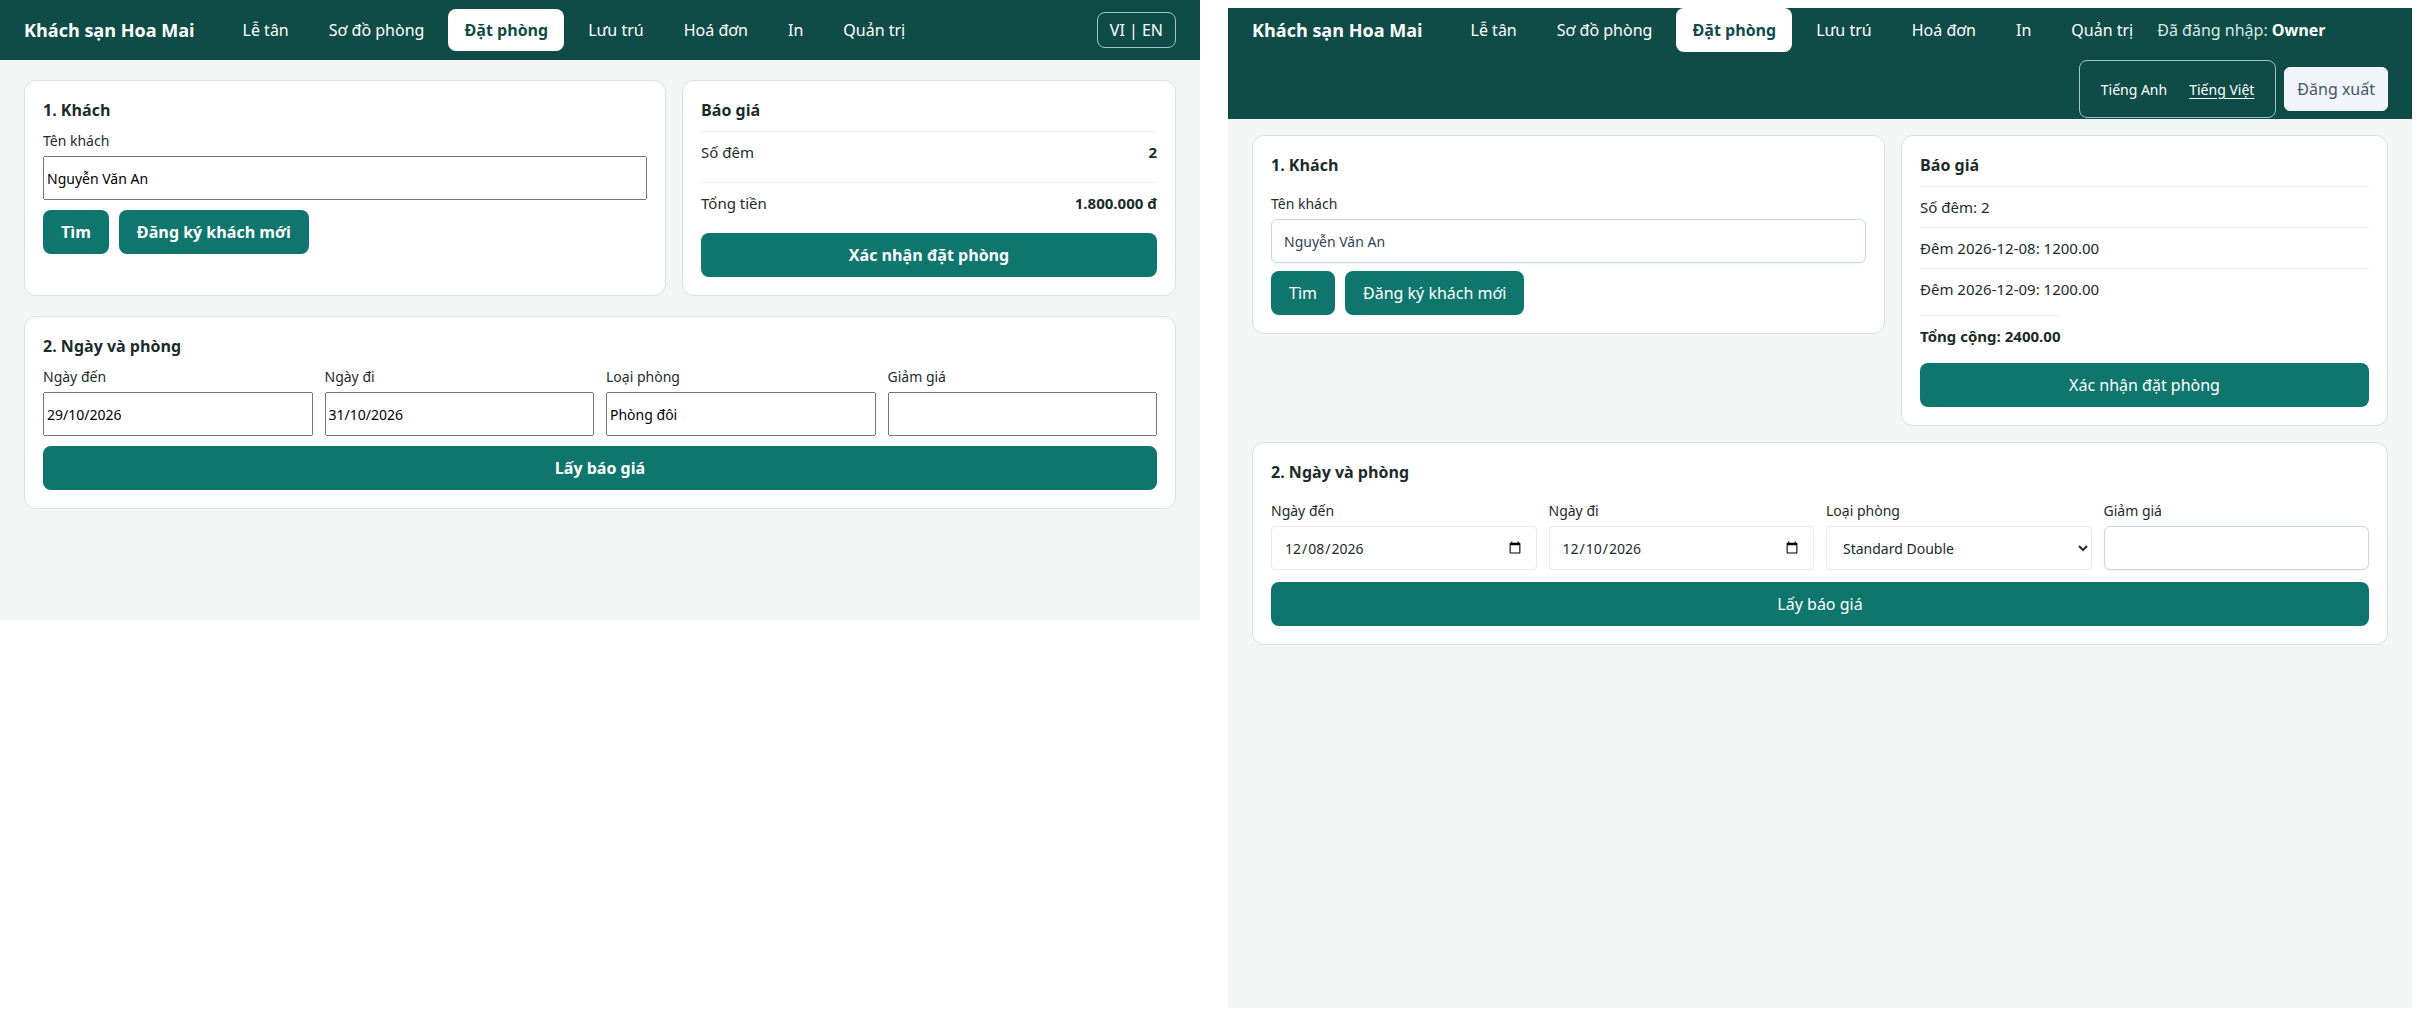
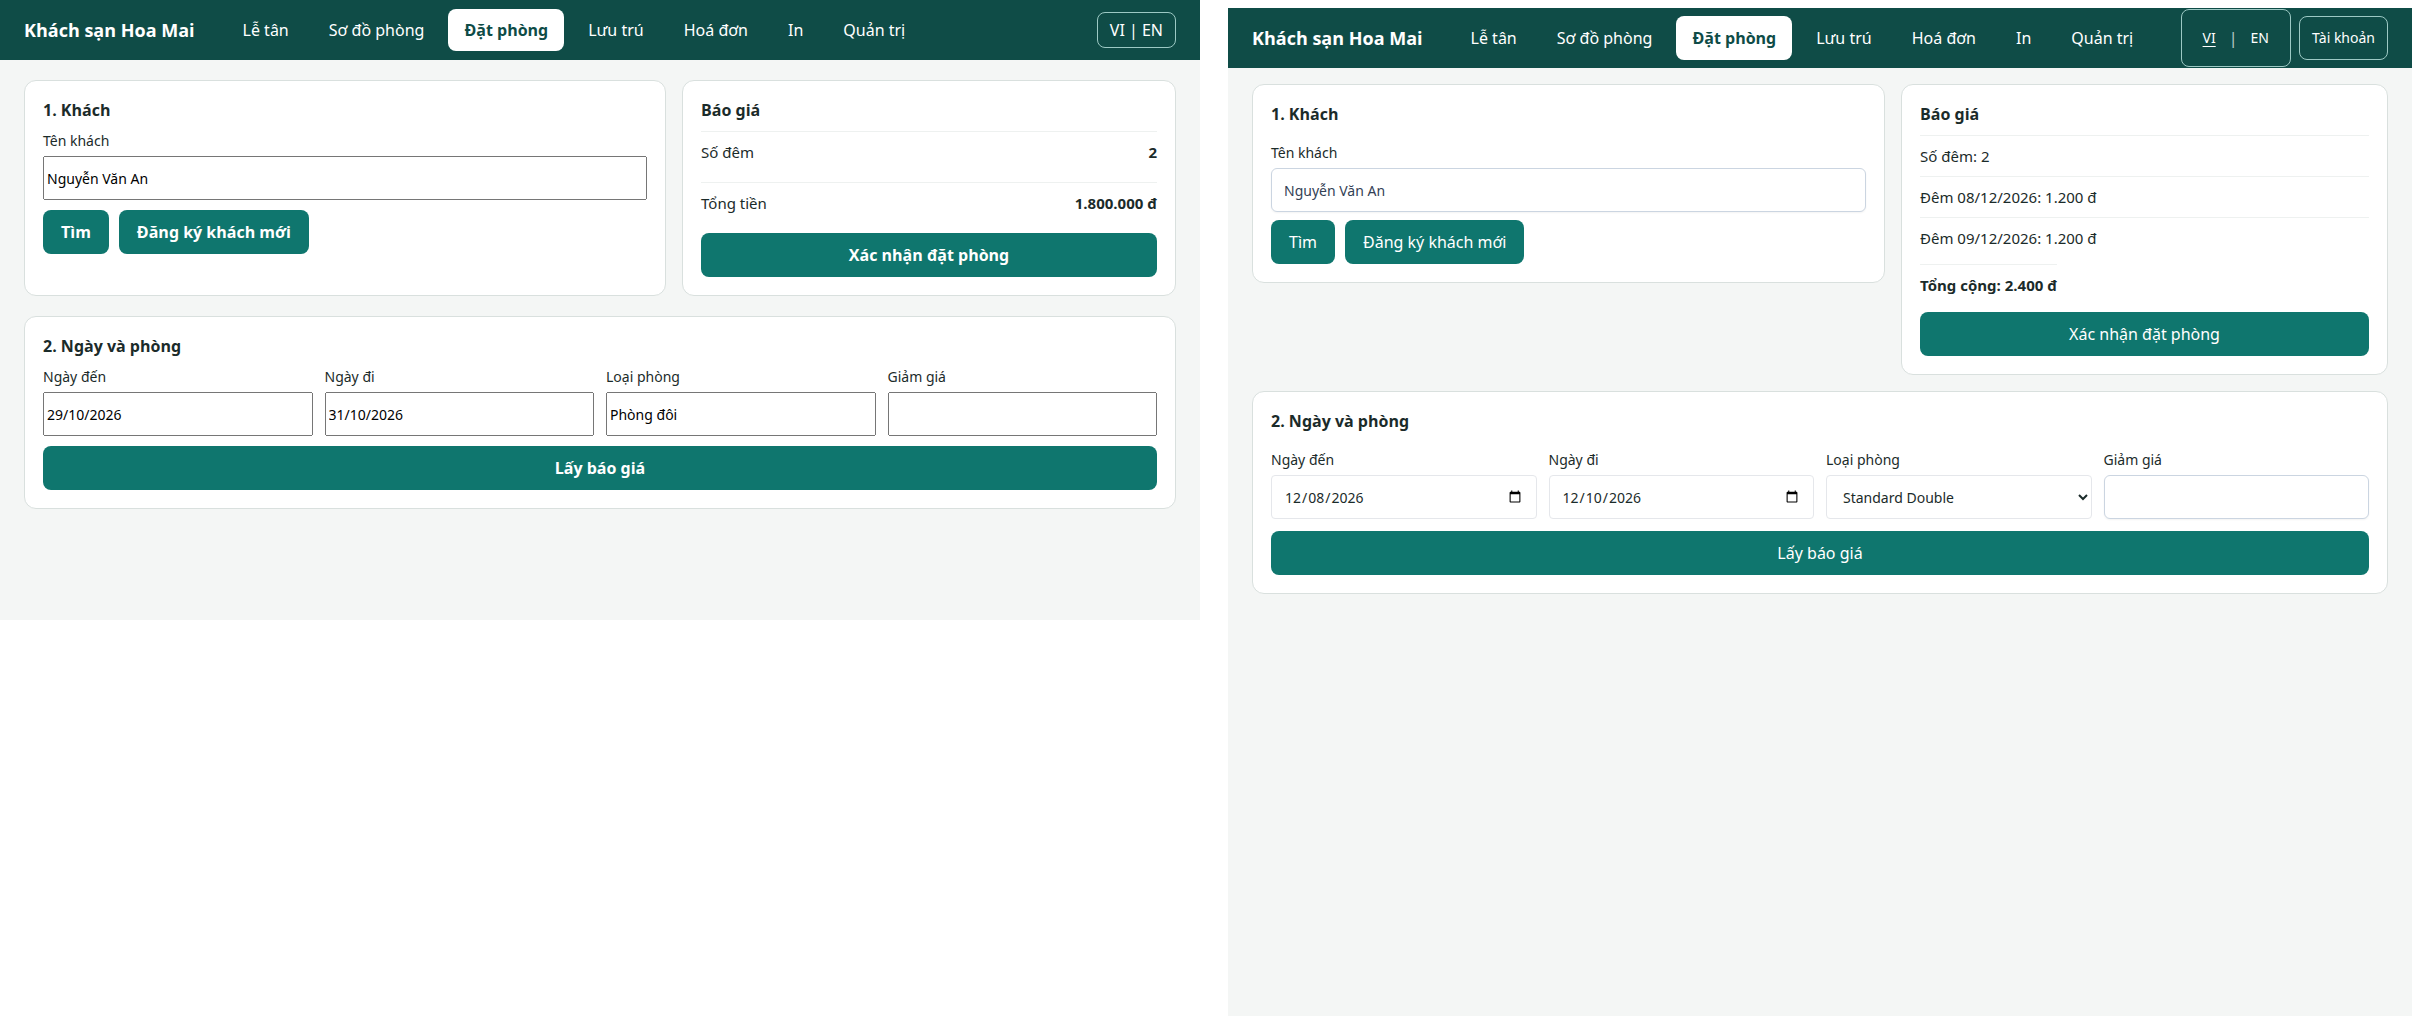
test(desk): Refresh Book and Folio audit evidence for the VND shape (#565)
Refresh the #563 living-record evidence for the `G-BK-2` / `G-FO-2`
fix (#565) in the same change: re-capture `side-by-side-Book-vi.png`
and `side-by-side-Folio-vi.png` from an isolated compose lab
(`hotel-lab-804`) with the built app at 1200px in `vi`, seed the same
guest/dates/amounts as the pre-fix images, and render the design
boards at the same width so only the presentation differs. The Book
quote now reads `Đêm 08/12/2026: 1.200 đ` / `Tổng cộng: 2.400 đ` and
the Folio lines and balance read `12.000 đ` / `6.000 đ`, matching the
design VND shape. Update the evidence index capture notes and image
table, and append the dated row to the audit record.

Also address the non-blocking #574 review notes on `formatVnd`: record
that a sub-dong remainder rounds for display only and that the `đ`
suffix is formatter output rather than catalogue copy, with a rounding
guard in the i18n suite.

Refs #565, Refs #563

diff --git a/app/src/i18n/index.ts b/app/src/i18n/index.ts
@@ -155,7 +155,13 @@ export function formatBusinessDate(canonical: string, locale: LocaleTag): string
 // owner boards draw VND amounts in the design shape — locale
 // grouping, no decimals, and the `đ` suffix (`1.200.000 đ` in VI,
 // `1,200,000 đ` in EN). Amounts arrive in minor units; this is
-// presentation only, so the stored value never changes.
+// presentation only, so the stored value never changes. VND has no
+// subunit, so a sub-dong minor remainder rounds to the nearest dong
+// for display (`1250` renders `13 đ`); the stored minor value is
+// untouched. The `đ` suffix is formatter output, not catalogue copy
+// (`Intl` currency style would emit `₫`, not the design's `đ`), the
+// same class as the date output above rather than a translatable
+// string.
 export function formatVnd(minor: number): string {
   const amount = new Intl.NumberFormat(catalogueLocale(), {
     minimumFractionDigits: 0,

diff --git a/app/src/i18n/index.test.ts b/app/src/i18n/index.test.ts
@@ -184,6 +184,14 @@ describe('desk money and quote-date display (Refs #565)', () => {
     expect(formatVnd(0)).toBe('0 đ');
   });
 
+  it('rounds a sub-dong remainder for display only', () => {
+    // VND has no subunit: 1250 minor is half a dong and renders the
+    // nearest dong. The stored minor value is never changed (Refs
+    // #565 review note).
+    expect(formatVnd(1250)).toBe('13 đ');
+    expect(formatVnd(1240)).toBe('12 đ');
+  });
+
   it('renders the desk dd/mm/yyyy date in both locales', () => {
     expect(formatDeskDate('2026-12-08')).toBe('08/12/2026');
     expect(formatDeskDate('2026-11-01')).toBe('01/11/2026');

diff --git a/docs/testing/evidence/563/README.md b/docs/testing/evidence/563/README.md
@@ -33,6 +33,16 @@ do not drift.
   backend data, so the boot config call was answered locally instead of
   standing up a lab (Chromium, viewport 1200×1000, locale pill switched to VI
   before load).
+- `side-by-side-Book-vi.png` and `side-by-side-Folio-vi.png` were refreshed
+  for the `G-BK-2` / `G-FO-2` fix (#565) from an isolated compose lab
+  (`hotel-lab-804`, isolated project and volumes, example data seeded through
+  the public contract, signed in as `owner` with a lab-only boot secret) and
+  the built app bundle at 1200px in `vi` (Chromium, viewport 1200×1016). The
+  live halves now show the design money/date shape: the Book quote reads
+  `Đêm 08/12/2026: 1.200 đ` / `Tổng cộng: 2.400 đ` instead of raw ISO dates
+  and two-decimal figures, and the Folio lines and balance read `12.000 đ` /
+  `6.000 đ`. Values are unchanged; the capture data mirrors the pre-fix image
+  (same guest, dates, and amounts) so only the presentation differs.
 
 ## Images
 
@@ -44,8 +54,8 @@ do not drift.
 | Stay | [side-by-side-Stay-vi.png](side-by-side-Stay-vi.png) | 2420×1016 | Check-in form and in-house lists; `G-ST-1`, `G-ST-2` |
 | Onboarding | [side-by-side-Onboarding-vi.png](side-by-side-Onboarding-vi.png) | 2420×1016 | Setup wizard vs the board's setup panel; `G-OB-1` |
 | Rooms | [side-by-side-Rooms-vi.png](side-by-side-Rooms-vi.png) | 2420×1016 | Room map, chips, and unassigned group; `G-RM-1`, `G-RM-2` |
-| Book | [side-by-side-Book-vi.png](side-by-side-Book-vi.png) | 2420×1016 | Booking form and quote rows; `G-BK-1`…`G-BK-3` |
-| Folio | [side-by-side-Folio-vi.png](side-by-side-Folio-vi.png) | 2420×1016 | Folio lines, amounts, and balance; `G-FO-1`, `G-FO-2` |
+| Book | [side-by-side-Book-vi.png](side-by-side-Book-vi.png) | 2420×1016 | Booking form and quote rows; refreshed for `G-BK-2` (#565) — nightly rows carry `dd/mm/yyyy` dates and VND `đ` amounts; `G-BK-1`, `G-BK-3` |
+| Folio | [side-by-side-Folio-vi.png](side-by-side-Folio-vi.png) | 2420×1016 | Folio lines, amounts, and balance; refreshed for `G-FO-2` (#565) — lines and balance carry the design VND `đ` shape; `G-FO-1` |
 | Admin | [side-by-side-Admin-vi.png](side-by-side-Admin-vi.png) | 2420×1491 | User, config, and audit cards; `G-AD-1`, `G-AD-2` |
 
 ## Living record
@@ -65,5 +75,5 @@ relaxation of the "audit issues carry no product code" rule in a
 [comment on #563](https://github.com/MingChen1501/hotel-mgmt/issues/563#issuecomment-6723063195);
 the audit comment's change log carries the matching dated row.
 
-<!-- ao-role: dev -->
-Role: dev · AO session hotel-mgmt-792
+<!-- ao-role: dev-takeover -->
+Role: dev-takeover · AO session hotel-mgmt-804
